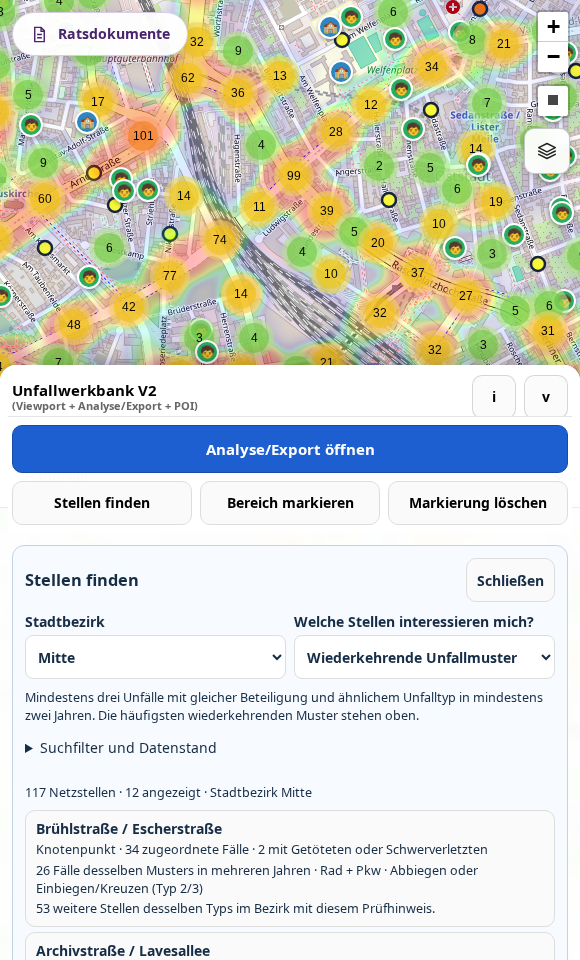
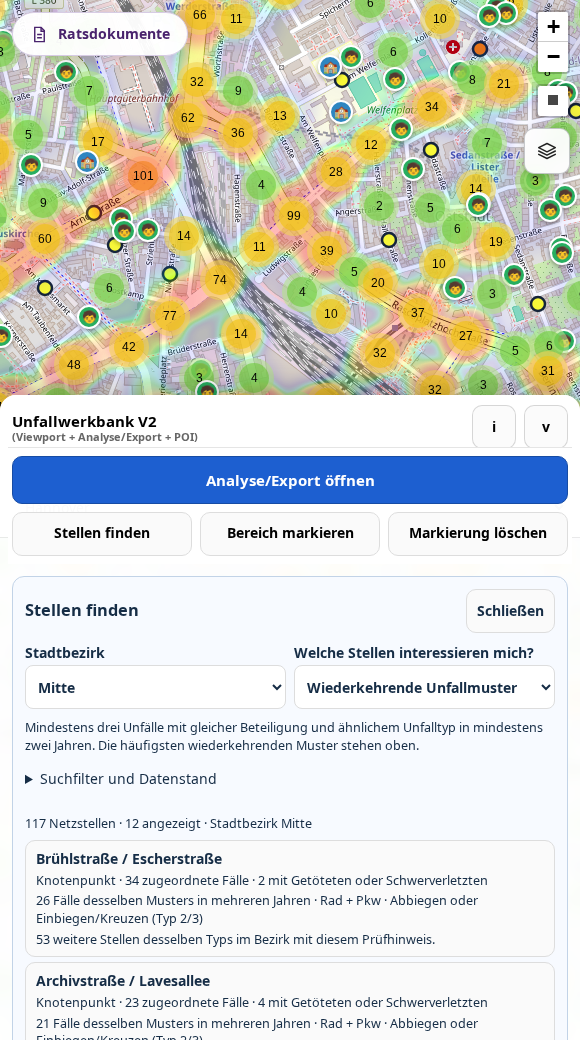
Ersten mobilen Treffer bei unterschiedlichen Browserschriften vollständig zeigen

diff --git a/tests/unit/docMediaPolicy.test.js b/tests/unit/docMediaPolicy.test.js
@@ -421,7 +421,7 @@ describe('documentation media policy', () => {
   test('documentation screenshots use their reviewed scenario dimensions', () => {
     const scenarioDimensions = {
       'docs/screenshots/14-export-filterkontext.png': { width: 1774, height: 887 },
-      'docs/screenshots/26-hannover-mitte-stellensuche.png': { width: 580, height: 960 },
+      'docs/screenshots/26-hannover-mitte-stellensuche.png': { width: 580, height: 1040 },
       'docs/screenshots/27-hannover-fall-wirkungskontrolle.png': { width: 1040, height: 760 },
     };
     for (const asset of manifest.assets.filter(entry => entry.kind === 'screenshot')) {

diff --git a/tests/e2e/screenshots.spec.js b/tests/e2e/screenshots.spec.js
@@ -637,7 +637,7 @@ test.describe('Werkbank V2 – Dokumentations-Screenshots', () => {
 
   test('26 Mobile Stellensuche nach wiederkehrenden Mustern in Hannover-Mitte', async ({ page }) => {
     const path = 'docs/screenshots/26-hannover-mitte-stellensuche.png';
-    await page.setViewportSize({ width: 580, height: 960 });
+    await page.setViewportSize({ width: 580, height: 1040 });
     await loadPage(page, '?' + new URLSearchParams(documentationLinks.SCREENSHOT_SCENARIOS[path].query));
     const panel = page.locator('#siteDiscoveryPanel');
     await expect(panel.locator('#siteDiscoveryDistrict')).toHaveValue('Mitte');

diff --git a/docs/screenshots/README.md b/docs/screenshots/README.md
@@ -7,7 +7,7 @@ werden automatisiert geprüft.
 
 ## Verbindliche Regeln
 
-1. Anwendungsscreenshots haben grundsätzlich **1280 × 640 px**. Das Hbf-Kartenbild `13` folgt diesem Standard und wird zusätzlich durch ein Sichtbarkeits-Gate geschützt; die Dialog- und Doppelseitenmedien `14` und `15` verwenden **1774 × 887 px**. Die Bezirksliste `26` zeigt die Telefonansicht mit **580 × 960 px**. Das Fallblatt `27` zeigt Karte und Quellenbeleg bei **1040 × 760 px**.
+1. Anwendungsscreenshots haben grundsätzlich **1280 × 640 px**. Das Hbf-Kartenbild `13` folgt diesem Standard und wird zusätzlich durch ein Sichtbarkeits-Gate geschützt; die Dialog- und Doppelseitenmedien `14` und `15` verwenden **1774 × 887 px**. Die Bezirksliste `26` zeigt die Telefonansicht mit **580 × 1040 px**. Das Fallblatt `27` zeigt Karte und Quellenbeleg bei **1040 × 760 px**.
 2. Die gerenderte PDF-Gesamtvorschau `15` zeigt eine geprüfte Doppelseite mit **1774 × 887 px**.
 3. Jedes eingecheckte Medium unter `docs/` ist in
    [`docs/media-manifest.json`](../media-manifest.json) deklariert.

diff --git a/docs/documentation-live-link-qa.md b/docs/documentation-live-link-qa.md
@@ -6,7 +6,7 @@ User-facing screenshots and action links may point to the public Unfallwerkbank 
 
 `scripts/documentation-deeplink-contract.cjs` reads both user-facing documents and validates every embedded PNG/GIF and every canonical application URL.
 
-For the 14 documented application-screenshot scenarios it requires:
+Every documented application screenshot must satisfy these checks.
 
 - every displayed medium is clickable;
 - every screenshot path has one declared canonical scenario;
